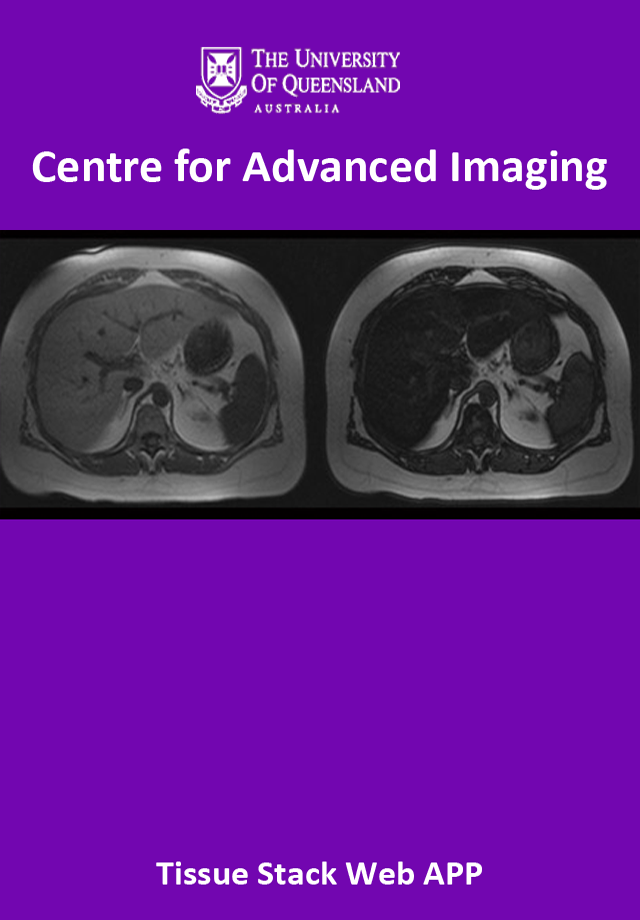
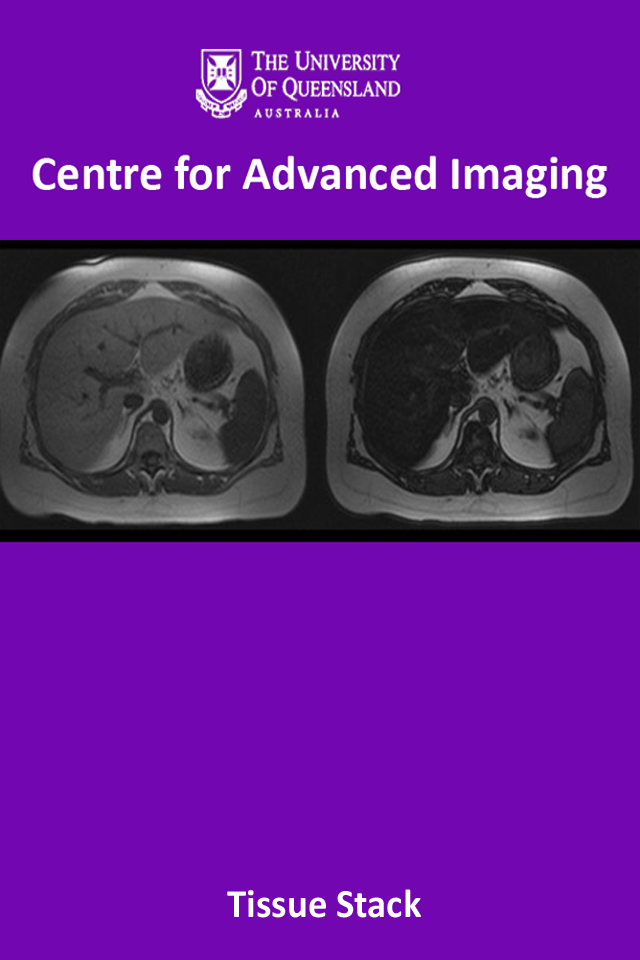
png things for Retina display

Changed region(s): [[0.25, 0.913, 0.75, 0.9739]]

diff --git a/src/web/phone.html b/src/web/phone.html
@@ -7,8 +7,9 @@
 	
 	<!--Apple Smart Phone Devices Start Up Splash Screen and ICON-->
 	<link rel="apple-touch-startup-image" href="images/phone/iphone4screen.png" /> <!-- For iPhone4 and 4S -->
-	<link rel="apple-touch-icon" href="images/favicon_icon3.png" />	<!-- Home Screen for iPhone Devices -->
-	<link rel="apple-touch-icon-precomposed" href="images/favicon_icon3.png" /> <!-- Home Screen for Android Devices -->
+	<link rel="apple-touch-startup-image" href="images/phone/iphone5screen.png" /> <!-- For iPhone5 -->
+	<link rel="apple-touch-icon" href="images/favicon_icon.png" />	<!-- Home Screen for iPhone Devices -->
+	<link rel="apple-touch-icon-precomposed" href="images/favicon_icon.png" /> <!-- Home Screen for Android Devices -->
 	
 	<link rel="stylesheet" href="css/phone.css" />
 	<link rel="stylesheet" href="css/jquery.mobile-1.1.1.min.css" />
@@ -74,11 +75,11 @@
 			<a href="#" class="showMenu menuBtn">Menu</a>
 			<h1>Data Server</h1>
 		</div><!-- /header -->
-		<div data-role="content">
+		<div data-role="content" style="height: 390px;">
 				<input style="font-size: 16px;" size="8" maxlength="50" type="text" id="server_search_input" value="http://"/>
 				<button type="button" id="server_search_button">Connect to TissueStack Server</button>
-				<div id="phonetransition" style="height: 227px; position:relative; overflow:auto;">			
-						<div id="mobile_style_tree_dataset" style="margin: 8px; height: 500px;">
+				<div id="phonetransition" style="height: 290px; position:relative; overflow:auto;">			
+						<div id="mobile_style_tree_dataset" style="margin: 8px; height: 520px;">
 							<div data-role="collapsible-set" data-theme="b" data-content-theme="b">
 								<div id="tablet_tree"></div>
 							</div>
@@ -93,7 +94,7 @@
 			<a href="#" class="showMenu menuBtn">Menu</a>
 			<h1>Setting</h1>
 		</div><!-- /header -->
-		<div data-role="content">
+		<div data-role="content" style="height: 390px;">
 				<div style="text-align: center;" data-role="fieldcontain">
 				    <fieldset id="colormap_choice" data-role="controlgroup">		
 						<input type="radio" name="color_map" id="colormap_grey" value="colormap_grey" checked="checked"/>
@@ -194,7 +195,7 @@
 			<a href="#" class="showMenu menuBtn">Menu</a>
 			<h1>Contrast Control</h1>
 		</div><!-- /header -->
-		<div data-role="content">			
+		<div data-role="content" style="height: 390px;">			
 			<div class="phone_contrast_box">
 				<canvas id="dataset_1_toolbox_canvas_phone" class="phone_contrast_slider"></canvas>
 			</div>
@@ -212,7 +213,7 @@
 			<a href="#" class="showMenu menuBtn">Menu</a>
 			<h1>Add New Data Set</h1>
 		</div><!-- /header -->
-		<div data-role="content">
+		<div data-role="content" style="height: 390px;">
 	        <div id="phone_login">
 	          User:<input type="text" size="15" name="username" id="username" disabled="disabled" value="Admin"/>
 	          Password:<input type="password" size="15" name="password" id="password" /><br/>
@@ -238,7 +239,7 @@
 			<a href="#" class="showMenu menuBtn">Menu</a>
 			<h1>Contrast Control</h1>
 		</div><!-- /header -->
-		<div data-role="content">			
+		<div data-role="content" style="height: 390px;">			
 			<div style="text-align: center";>Under Development !!</div>	
 		</div><!-- /content -->
 	</div><!-- /page -->
